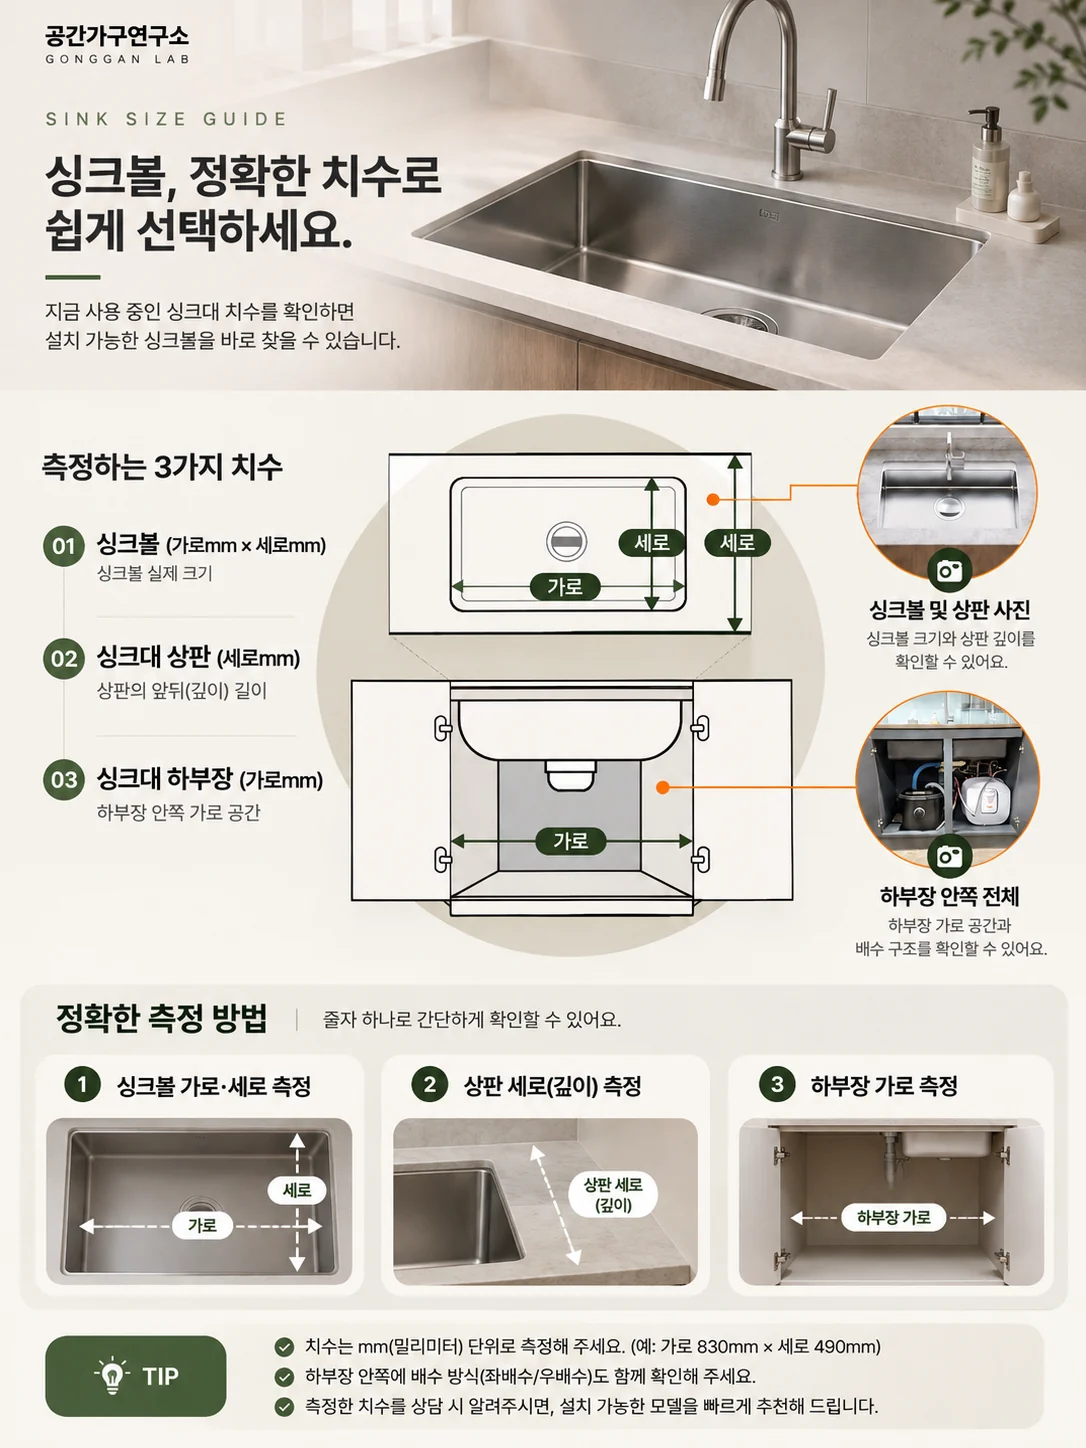
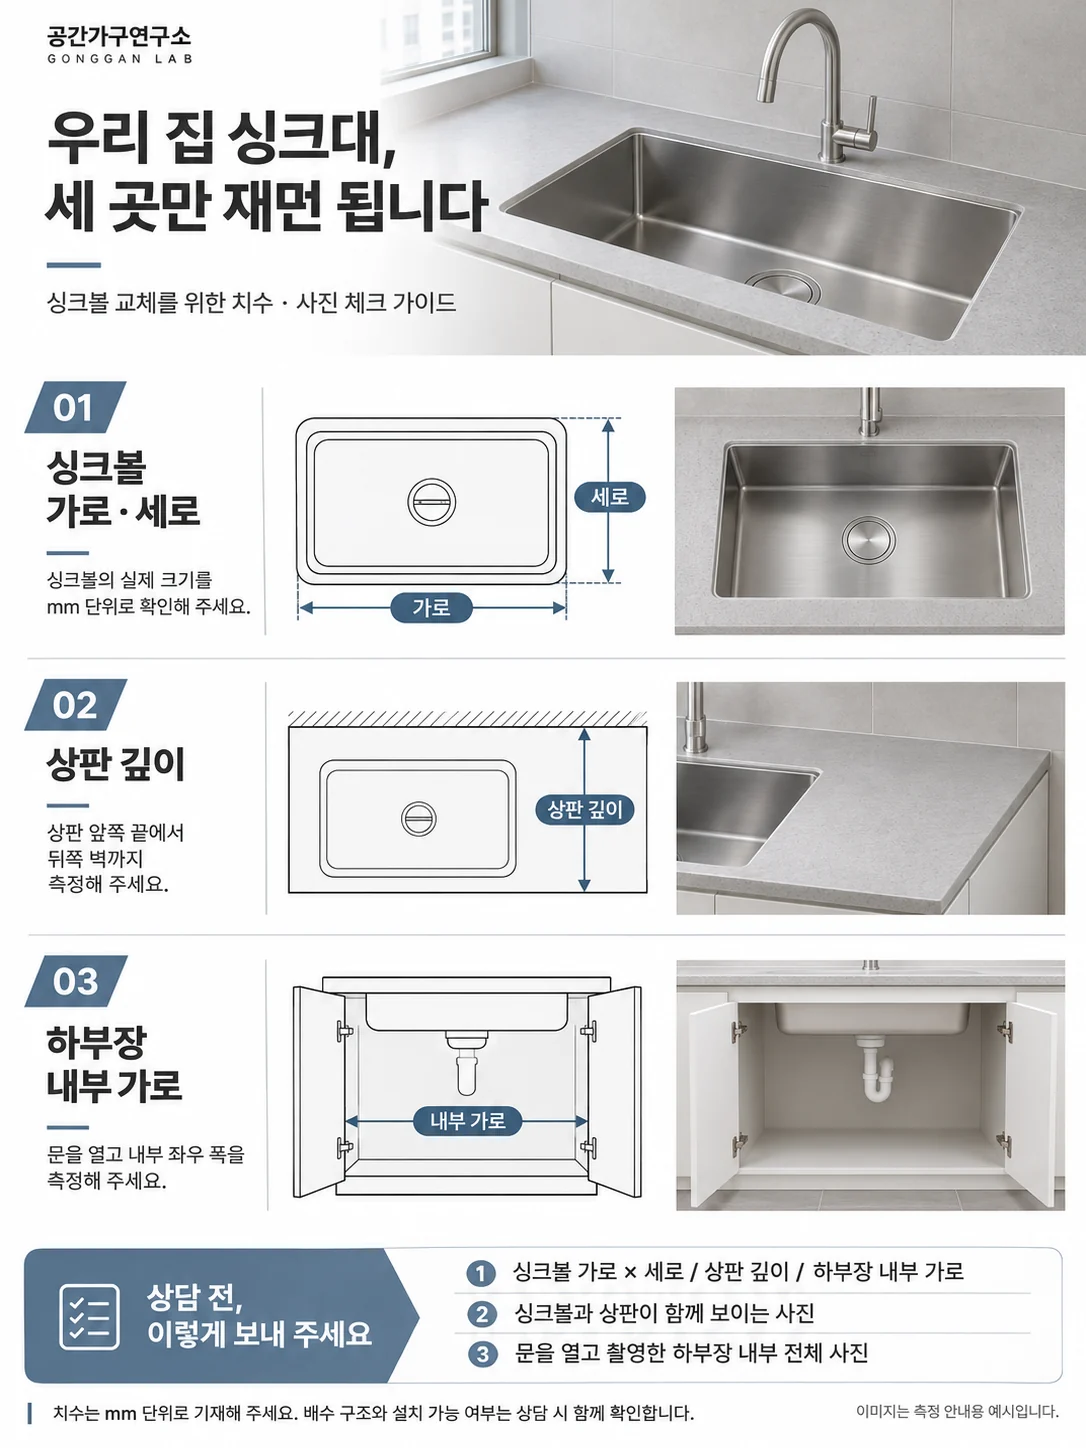
싱크볼 치수 가이드 새 디자인 교체 + 린나이 IHB31M 인덕션 썸네일 추가
- sink-size-guide.webp를 신규 디자인('우리 집 싱크대, 세 곳만 재면 됩니다')으로 교체(동일 파일명, 전 싱크볼 상세 자동 반영)
- kitchen.js 린나이 IHB31M img 연결(준비중→썸네일), img/주방기기/k_rinnai_ihb31m.webp

diff --git a/데이터/kitchen.js b/데이터/kitchen.js
@@ -239,7 +239,7 @@ window.GG_KITCHEN = [
   "name": "린나이 IHB31M",
   "price": 360000,
   "tapTotal": null,
-  "img": ""
+  "img": "img/주방기기/k_rinnai_ihb31m.webp"
  },
  {
   "kcat": "박스형 후드/침니형 후드",
